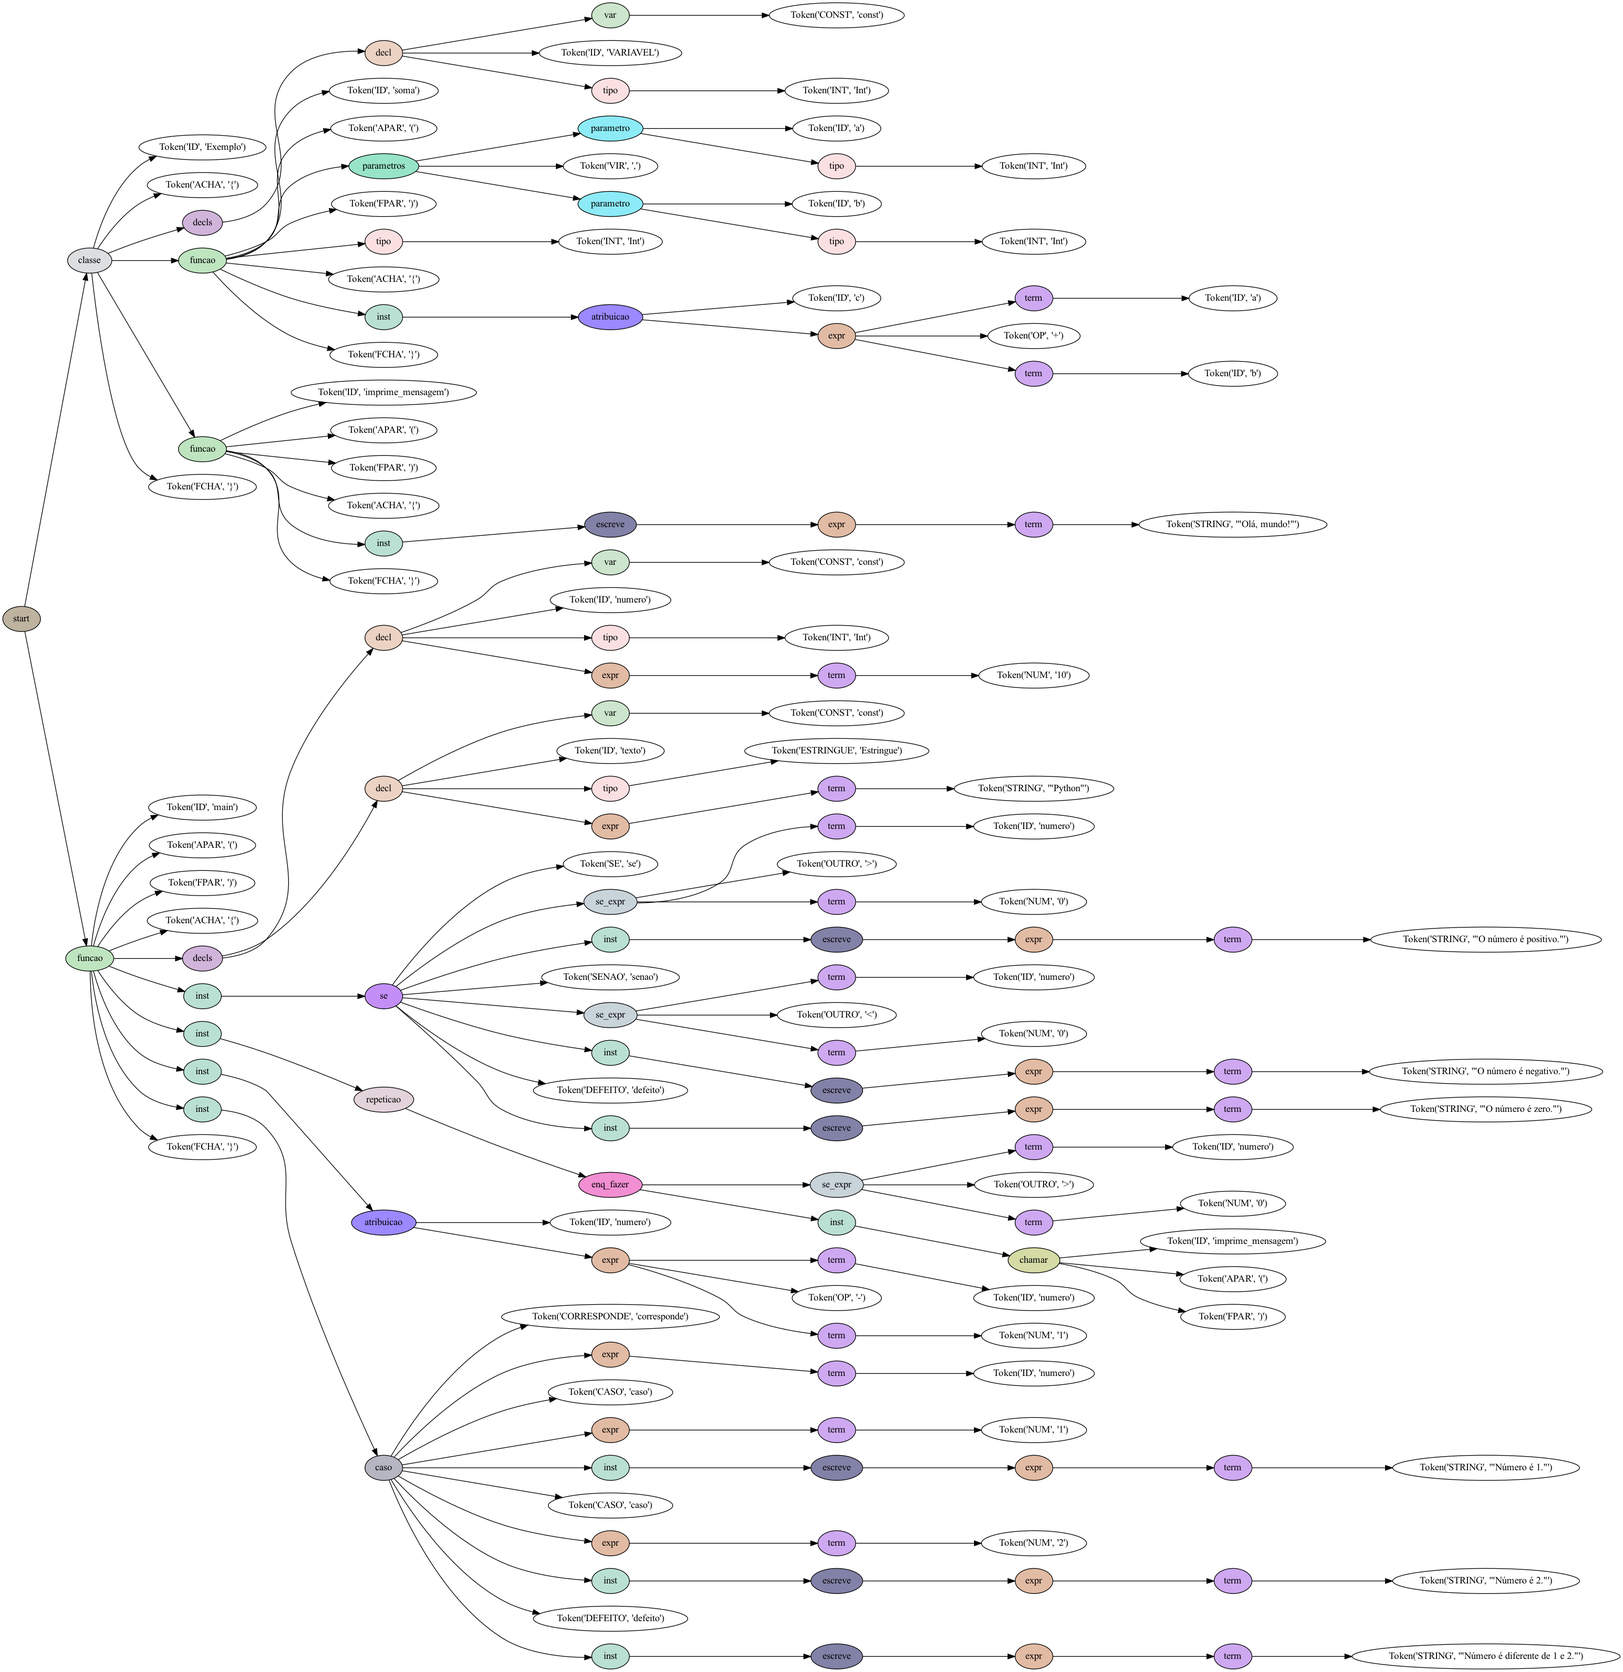
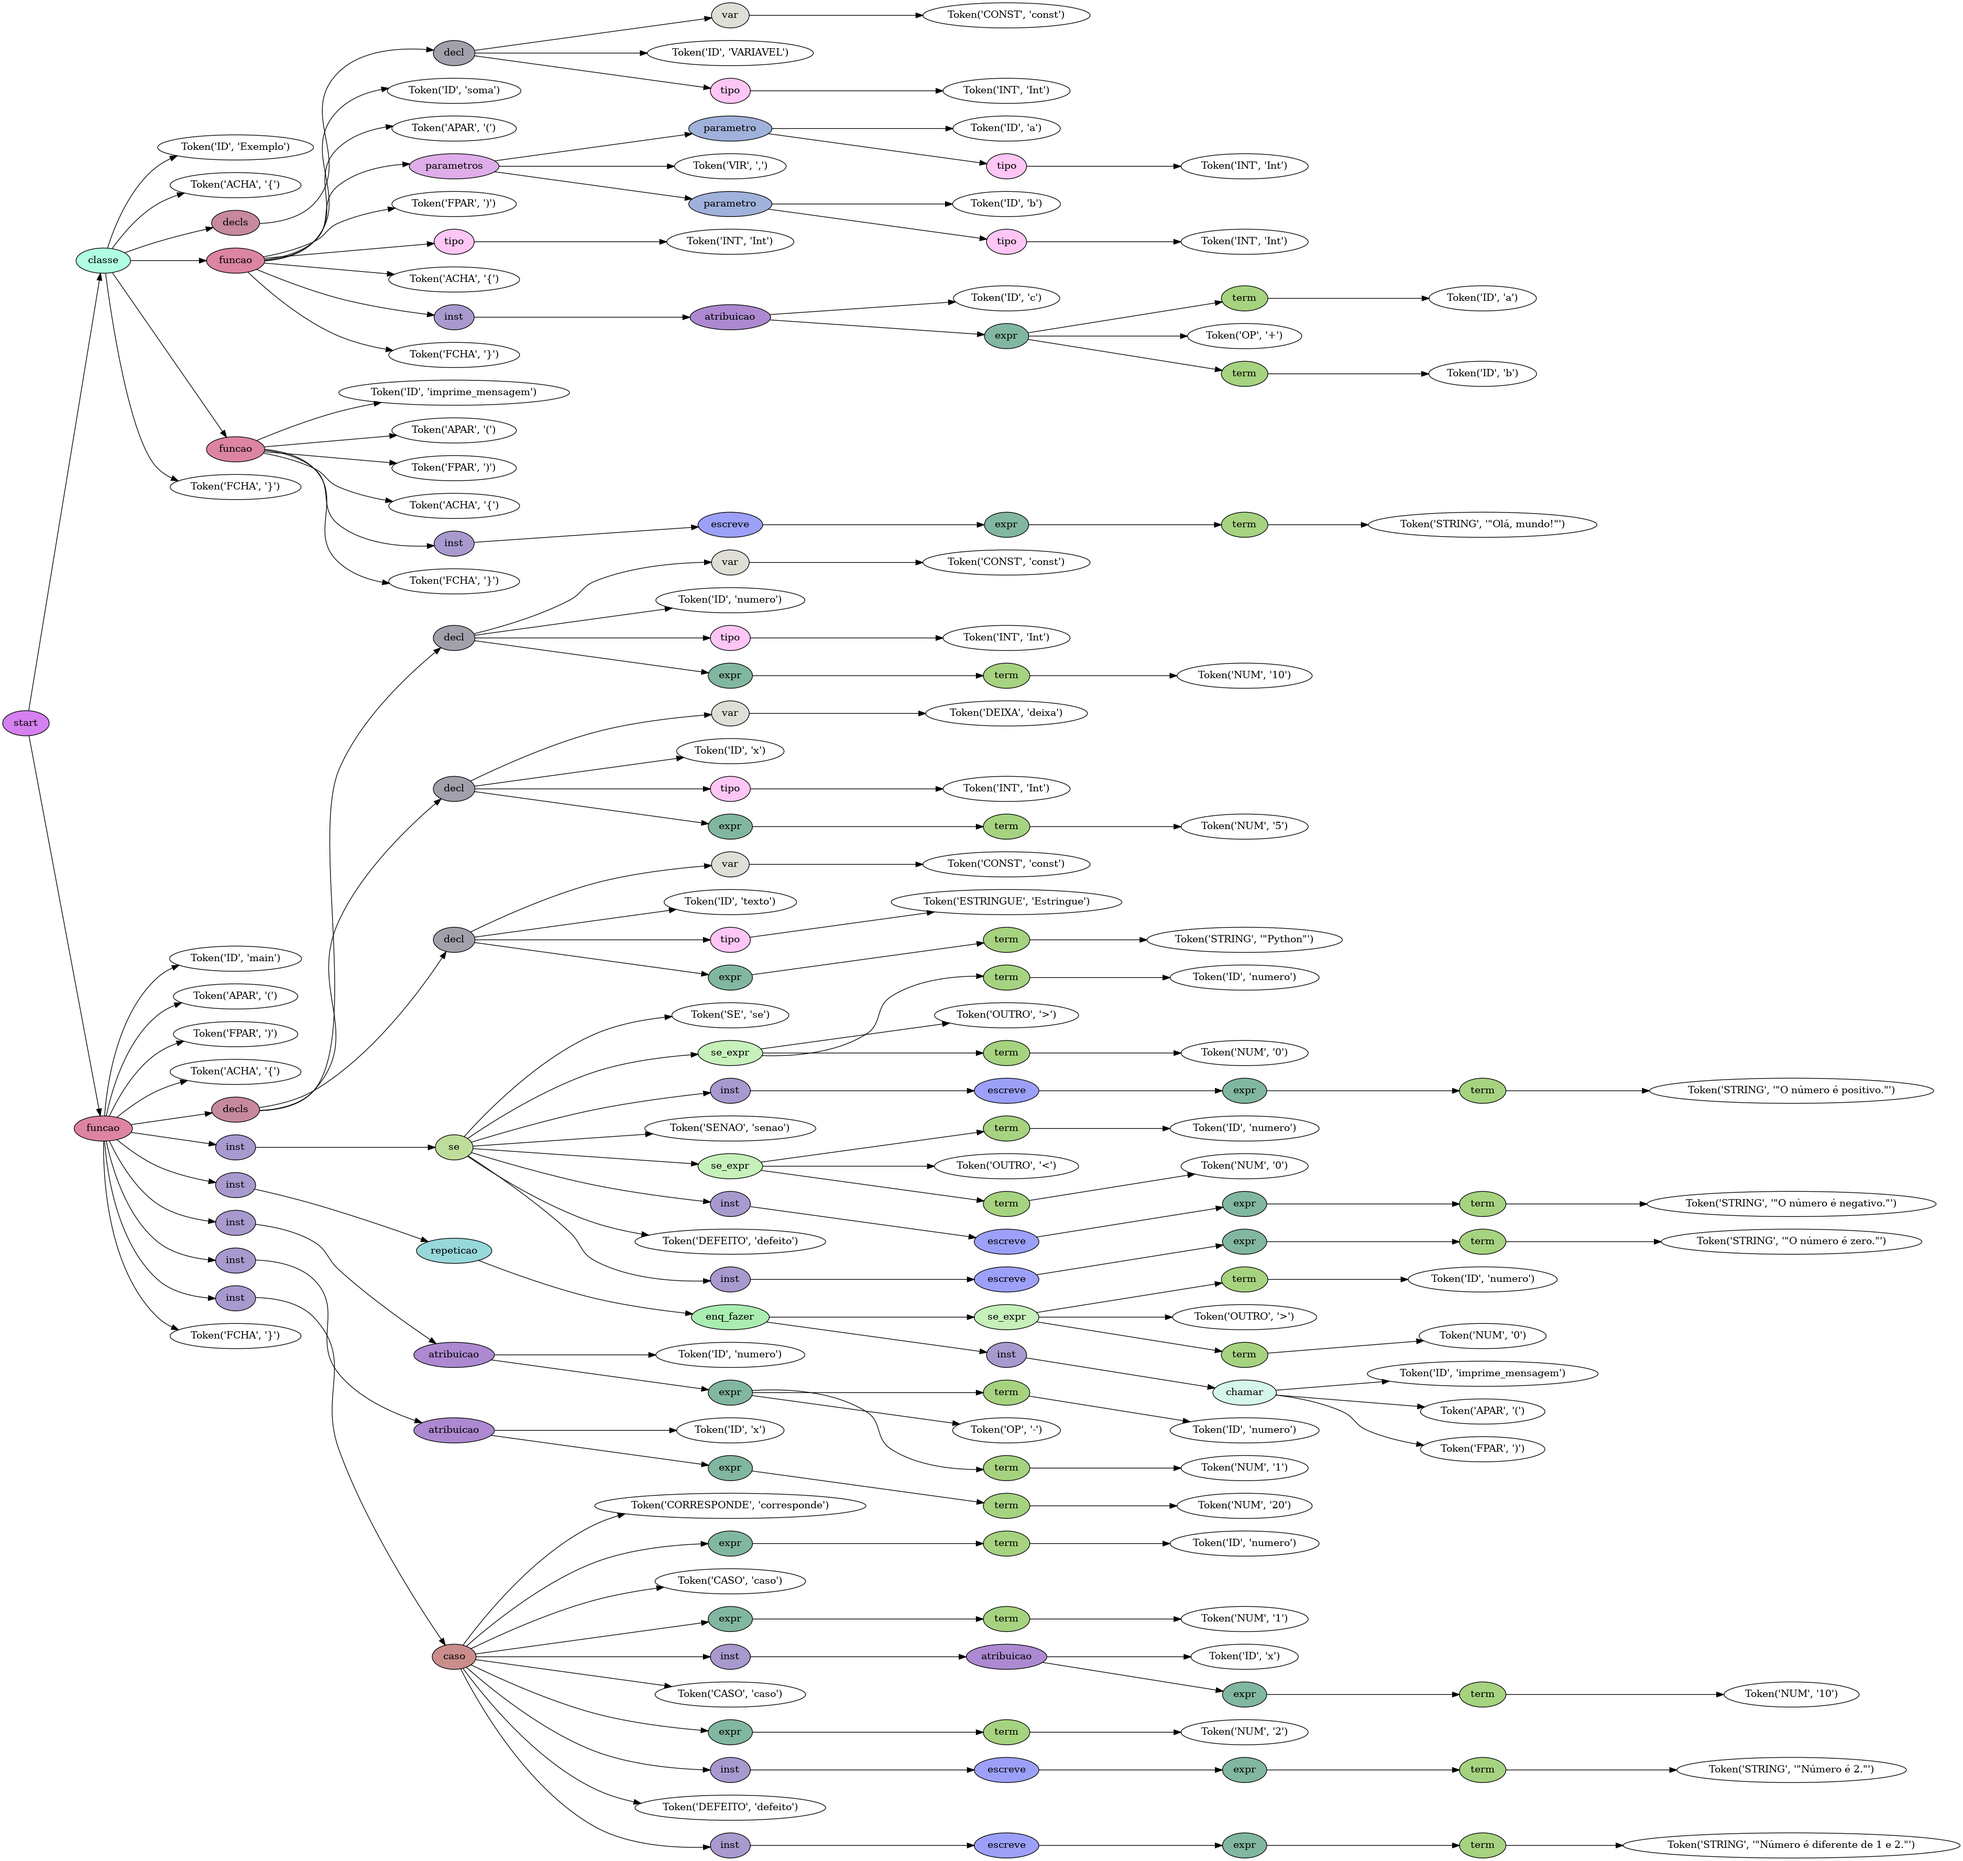
Alterações Finais

diff --git a/TP2/pagHTML.html b/TP2/pagHTML.html
@@ -114,11 +114,15 @@ classe Exemplo {
 }
 
 fun main() {
-   <span class='funcla'> const </span>numero: Int = 10
+   <span class='funcla'> deixa </span>numero: Int = 10
+   <span class='funcla'> deixa </span>x: Int = 5
+
    <span class='funcla'> const </span>texto: Estringue = "Python"
 
    <span class='cond'> se </span>numero > 0 entao
-       <span class='funcla'> escreve </span>"O número é positivo."
+       <span class='cond'> se </span>numero > 5 entao
+           <span class='funcla'> escreve </span>"O número é positivo."
+        fim
    <span class='cond'> senao </span>numero < 0 entao
        <span class='funcla'> escreve </span>"O número é negativo."
    <span class='cond'> defeito </span>
@@ -128,11 +132,13 @@ fun main() {
    <span class='cond'> enq </span>numero > 0 fazer
         imprime_mensagem()
         numero = numero - 1
+    
+    x = 20
 
 
    <span class='cond'> corresponde </span>numero com
         caso 1 =>
-           <span class='funcla'> escreve </span>"Número é 1."
+            x = 10
         caso 2 =>
            <span class='funcla'> escreve </span>"Número é 2."
        <span class='cond'> defeito </span>=>
@@ -146,7 +152,7 @@ fun main() {
                 <div class="variables">
                     Variáveis:
                     <ul>
-                        <li>'Int': 2</li>
+                        <li>'Int': 3</li>
                         <li>'Set': 0</li>
                         <li>'Array': 0</li>
                         <li>'Tuplo': 0</li>
@@ -157,12 +163,12 @@ fun main() {
                 <div class="instructions">
                     Instruções:
                     <ul>
-                        <li>Declarações: 3</li>
-                        <li>Atribuições: 0</li>
+                        <li>Declarações: 4</li>
+                        <li>Atribuições: 3</li>
                         <li>Leitura: 0</li>
-                        <li>Escrita: 4</li>
+                        <li>Escrita: 6</li>
                         <li>Imprime: 0</li>
-                        <li>Condicionais: 0</li>
+                        <li>Condicionais: 3</li>
                         <li>Cíclicas: 1</li>
                     </ul>
                 </div>
@@ -170,19 +176,19 @@ fun main() {
             <div class="box middle">
                 Erros e Avisos:
                 <ul>
-                    <li>ERRO: Variável não declarada c</li><li>ERRO: Variável constante não pode ser alterada: numero</li>
+                    <li>ERRO: Variável não declarada c</li>
                     
                 </ul>
             </div>
             <div class="box bottom sub-box">
                 <div class="variables">
                     Nº de Estruturas de Controlo aninhadas:
-                    0
+                    1
                 </div>
                 <div class="instructions">
                     <em>Ifs</em> aninhados que se podiam juntar:
                     <ul>
-                        <li>numero > 0 , numero < 0 => numero > 0 e numero < 0:</li>
+                        <li>numero > 0 , numero > 5 => numero > 0 e numero > 5:</li>
                     </ul>
                 </div>
             </div>

diff --git a/TP2/pitaoTest.py b/TP2/pitaoTest.py
@@ -257,29 +257,37 @@ Lista {self.vars['Lista']}
         print("Imprime")
         self.instrucoes['imprime'] += 1
 
-    def selecao(self, tree):
-        print("Selecao")
-        if self.controlo == True:
-            self.estruturas_controlo += 1
-        self.controlo = True
-        self.visit_children(tree)
-        self.instrucoes['condicionais'] += 1
-        self.controlo = False
+    ### Deprecated
+    # def selecao(self, tree):
+    #     print("Selecao")
+    #     if self.controlo == True:
+    #         self.estruturas_controlo += 1
+    #     self.controlo = True
+    #     self.visit_children(tree)
+    #     self.controlo = False
 
     def se(self, tree):
         print("Se")
+        
+        if self.controlo == True:
+            self.estruturas_controlo += 1
+        self.instrucoes['condicionais'] += 1
+        
         if len(tree.children) == 3:
             self.insideIf_acc.append(self.visit(tree.children[1]))
             self.insideIf= True
+            self.controlo = True
             self.visit(tree.children[2])
+            self.controlo = False
                 
         # se tiver if e else
         elif len(tree.children) == 5:
             if self.insideIf == False:
                 self.insideIf_acc.append(self.visit(tree.children[1]))
                 self.insideIf = True
+                self.controlo = True
                 self.visit(tree.children[2])
-
+                self.controlo = False
                 self.insideIf_acc = []
                 self.insideIf = False
                 self.visit(tree.children[4])
@@ -291,6 +299,7 @@ Lista {self.vars['Lista']}
             # visitar if
             self.insideIf_acc.append(self.visit(tree.children[1]))
             self.insideIf = True
+            self.controlo = True
             self.visit(tree.children[2])
             
             # visitar elif's, e se existir else
@@ -298,12 +307,15 @@ Lista {self.vars['Lista']}
                 if isinstance(child,lark_lexer.Token) and child.type == "SENAO":
                     self.insideIf_acc.append(self.visit(tree.children[i+1]))
                     self.insideIf = True
+                    self.controlo = True
                     self.visit(tree.children[i+2])
 
                 elif isinstance(child,lark_lexer.Token) and child.type == "DEFEITO":
                     self.insideIf_acc = []
                     self.insideIf = False
+                    self.controlo = False
                     self.visit(tree.children[i+1])
+        
 
     def se_expr(self, tree):
         print("Se_expr")
@@ -325,7 +337,13 @@ Lista {self.vars['Lista']}
 
     def caso(self, tree):
         print("Caso")
-        pass
+        self.instrucoes['condicionais'] += 1
+        if self.controlo == True:
+            self.estruturas_controlo += 1
+        self.controlo = True
+        self.visit_children(tree)
+        self.controlo = False
+
 
     def repeticao(self, tree):
         print("Repeticao")
@@ -338,23 +356,27 @@ Lista {self.vars['Lista']}
 
     def enq_fazer(self, tree):
         print("Enq_fazer")
-        pass
+        self.visit_children(tree)
+
 
     def repetir_ate(self, tree):
         print("Repetir_ate")
-        pass
+        self.visit_children(tree)
+
 
     def expr(self, tree):
         expr = ''
         print("Expr")
         for i, child in enumerate(tree.children):
+            #print (child)
             if i == 0 or i % 2 == 0:
                 num = child.children[0]
                 expr += num
             else:
                 op = child
                 expr += op
-        return eval(expr)
+        print(expr)
+        return expr
 
     def term(self, tree):
         return tree.children[0].value
@@ -407,11 +429,15 @@ classe Exemplo {
 }
 
 fun main() {
-    const numero: Int = 10
+    deixa numero: Int = 10
+    deixa x: Int = 5
+
     const texto: Estringue = "Python"
 
     se numero > 0 entao
-        escreve "O número é positivo."
+        se numero > 5 entao
+            escreve "O número é positivo."
+        fim
     senao numero < 0 entao
         escreve "O número é negativo."
     defeito 
@@ -421,11 +447,13 @@ fun main() {
     enq numero > 0 fazer
         imprime_mensagem()
         numero = numero - 1
+    
+    x = 20
 
 
     corresponde numero com
         caso 1 =>
-            escreve "Número é 1."
+            x = 10
         caso 2 =>
             escreve "Número é 2."
         defeito =>
@@ -452,7 +480,7 @@ fim
 
 
 p = Lark(grammar2) # cria um objeto parser
-pydot__tree_to_png(p.parse(frase2),'ifs.png')
+pydot__tree_to_png(p.parse(frase2),'lark_test.png')
 
 tree = p.parse(frase2)  # retorna uma tree
 #print(tree)

diff --git a/TP2/pitao.py b/TP2/pitao.py
@@ -308,6 +308,7 @@ Lista {self.vars['Lista']}
                 expr += op
         return eval(expr)
 
+
     def term(self, tree):
         return tree.children[0].value
 
